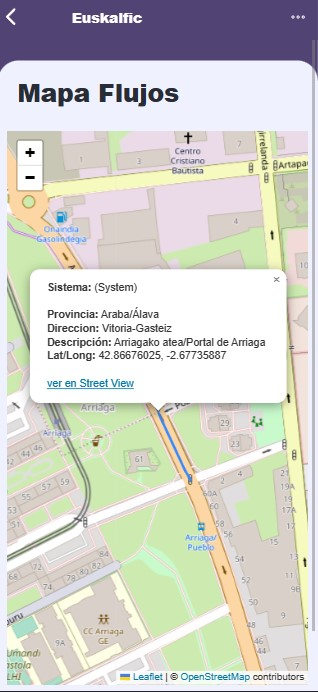
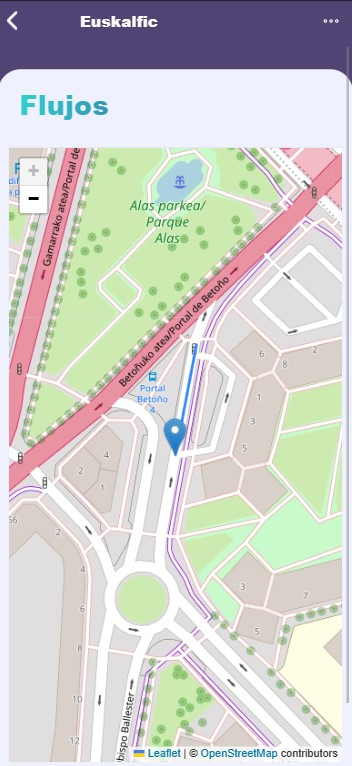
wip: cambios fotos, estilos, formateador geolocalizacion utm

diff --git a/src/app/views/map/containers/map.page.ts b/src/app/views/map/containers/map.page.ts
@@ -1,13 +1,14 @@
 import { ChangeDetectionStrategy, Component, OnDestroy } from '@angular/core';
 import { ActivatedRoute } from '@angular/router';
 import { Camera, CameraActions, fromCamera } from '@euskalfic/shared/camera';
-import { Flow, FlowActions, fromFlow, FlowProperty, FlowGeometry } from '@euskalfic/shared/flow';
+import { Flow, FlowActions, FlowGeometry, FlowProperty, fromFlow } from '@euskalfic/shared/flow';
 import { IncidenceActions, fromIncidence } from '@euskalfic/shared/incidence';
 import { Incidence } from '@euskalfic/shared/incidence/models/index';
 import { gotToTop, trackById } from '@euskalfic/shared/utils/funcionts';
 import { concatLatestFrom } from '@ngrx/effects';
 import { Store } from '@ngrx/store';
-import { Map, icon, marker, polyline, tileLayer } from 'leaflet';
+import { Map, icon, marker, polyline, tileLayer, utm } from 'leaflet';
+import 'leaflet.utm';
 import { Observable, Subject, map, takeUntil, tap } from 'rxjs';
 import { filter, switchMap } from 'rxjs/operators';
 
@@ -20,7 +21,7 @@ import { filter, switchMap } from 'rxjs/operators';
     </div>
 
     <div class="container components-background-dark">
-      <h1 class="text-color-dark">{{ 'COMMON.MAP' | translate }}
+      <h1 class="text-color-gradient">
         {{ (
             getOption === 'incidence' ? 'COMMON.INCIDENCES'
           : getOption === 'camera' ? 'COMMON.CAMERAS'
@@ -35,6 +36,10 @@ import { filter, switchMap } from 'rxjs/operators';
           leaflet
           id="map">
         </div>
+      </div>
+
+      <div class="notification-wrapper">
+        <p>{{ 'COMMON.NOTIFICATION_MESSAGE' | translate }}</p>
       </div>
 
     </div>
@@ -85,9 +90,11 @@ export class MapPage implements OnDestroy {
 
         return (this.getSelectors(incidenceId, cameraId, meterId) as any).pipe(
           tap(item => {
-            // console.log(item)
-            const { latitude = null, longitude = null } = (item as any) || {};
             if(!item) return;
+            const { latitude:fromUtmLatitude = 0, longitude:fromUtmLongitude = 0 } = this.getFromUtmCoords(item) || {};
+            const latitude = this.getOption === 'camera' ? fromUtmLatitude : (item as any)?.latitude ?? null;
+            const longitude = this.getOption === 'camera' ? fromUtmLongitude : (item as any)?.longitude ?? null;
+
             if(latitude?.toString() === '0.0' && longitude?.toString() === '0.0') return;
 
             setTimeout(() => {
@@ -187,7 +194,8 @@ export class MapPage implements OnDestroy {
 
   // CREATE INCIDENCE POPUP
   cameraPopUp(camera: Camera): string {
-    const { address = null, cameraName = null, kilometer = null,latitude = null, longitude = null, road = null } = camera || {}
+    const { address = null, cameraName = null, kilometer = null, road = null } = camera || {};
+    const { latitude = 0, longitude = 0 } = this.getFromUtmCoords(camera) || {};
     return `
       <b>Ubicacion:</b> (${address || '-' })<br /><br />
       <b>Nombre camara:</b> ${cameraName || '-'}<br />
@@ -246,5 +254,16 @@ export class MapPage implements OnDestroy {
       </a>
     `;
   }
+
+
+  getFromUtmCoords(item: any): {longitude: number | number[], latitude: number | number[]} {
+    const { latitude:y = 0, longitude:x = 0 } = item|| {};
+    const data = utm({x, y, zone: 30, band: 'N', southHemi: false });
+    return {
+      longitude: data?.latLng()?.lng ?? 0,
+      latitude: data?.latLng()?.lat ?? 0,
+    };
+  }
+
 
 }

diff --git a/src/app/shared-ui/card/card.component.ts b/src/app/shared-ui/card/card.component.ts
@@ -34,7 +34,7 @@ import { errorImage, sliceDate, sliceText } from '@euskalfic/shared/utils/funcio
       </div>
 
       <ng-container *ngIf="from !== 'source'">
-        <div class="set-item-types">
+        <div class="set-item-types" [ngClass]="{'w-52':['cameras']?.includes(from), 'w-94': !['cameras']?.includes(from)}">
           <ion-chip class="text-color-light">
             <ion-label>
               {{
@@ -64,11 +64,11 @@ import { errorImage, sliceDate, sliceText } from '@euskalfic/shared/utils/funcio
             <ion-img loading="lazy" [src]="$any(item)?.urlImage || defaultImage" [alt]="$any(item)?.urlImage" (ionError)="errorImage($event)"></ion-img>
           </ion-avatar>
 
-          <div *ngIf="['incidences','flows']?.includes(from)" class="icon-wrapper displays-center">
+          <!-- <div *ngIf="['incidences','flows']?.includes(from)" class="icon-wrapper displays-center">
             <ion-chip *ngIf="['incidences']?.includes(from)" class="text-color-light"> <ion-label>{{ $any(item)?.autonomousRegion || '-' }}</ion-label></ion-chip>
             <ion-chip *ngIf="['incidences']?.includes(from)" class="text-color-light"> <ion-label>{{ $any(item)?.province || '-' }}</ion-label></ion-chip>
             <ion-chip *ngIf="['flows']?.includes(from)" class="text-color-light heigth-min"> <ion-label>{{ $any(item)?.properties?.description || '-' }}</ion-label></ion-chip>
-          </div>
+          </div> -->
         </div>
       </ng-container>
     </div>

diff --git a/src/app/shared-ui/card/card.component.scss b/src/app/shared-ui/card/card.component.scss
@@ -1,7 +1,7 @@
 @import '../../../theme/variables';
 
 :host{
-  width: 94%;
+  width: 48%;
 
   ion-card{
     min-height: 7em;
@@ -52,22 +52,13 @@
       }
 
       .set-item-types{
-        width: 52%;
+        // width: 52%;
         margin-top: 10px;
       }
 
       .icon-wrapper {
         margin: 0 auto;
         margin-top: 10px;
-
-        ion-chip{
-          // height: 50px;
-
-          // ion-label{
-          //   padding-top: 5px;
-          //   padding-bottom: 5px;
-          // }
-        }
       }
     }
 
@@ -79,10 +70,8 @@
     }
 
     ion-chip{
-      width: 100%;
+      width: 94%;
       height: 20px;
-      // box-shadow: 1px 1px 7px grey;
-      // background: $fifthiary;
       background: rgba(255, 255, 255, 0.15);
 
       ion-label{
@@ -92,4 +81,12 @@
     }
   }
 
+}
+
+.w-52{
+  width: 52%;
+}
+
+.w-94{
+  width: 94%;
 }

diff --git a/src/app/views/source/containers/source.page.ts b/src/app/views/source/containers/source.page.ts
@@ -17,7 +17,7 @@ import { componentState } from '@euskalfic/shared/utils/models';
     </div>
 
     <div class="container components-background-dark">
-      <h1 class="text-color-dark">{{ 'COMMON.FLOWS' | translate }}</h1>
+      <h1 class="text-color-gradient">{{ 'COMMON.FLOWS' | translate }}</h1>
       <div class="empty-div"></div>
 
       <ng-container *ngIf="source$ | async as source">
@@ -56,7 +56,7 @@ import { componentState } from '@euskalfic/shared/utils/models';
 
       <!-- LOADER  -->
       <ng-template #loader>
-        <app-skeleton-card *ngFor="let item of [1,2,3,4,5,6,7,8,9,10]; trackBy: trackById"></app-skeleton-card>
+        <app-skeleton-card *ngFor="let item of [1,2,3,4,5,6,7]; trackBy: trackById"></app-skeleton-card>
       </ng-template>
     </div>
 

diff --git a/src/app/views/camera/containers/camera.page.ts b/src/app/views/camera/containers/camera.page.ts
@@ -22,7 +22,7 @@ import * as fromCameraPage from '../selectors/camera-page.selectros';
     </div>
 
     <div class="container components-background-dark">
-      <h1 class="text-color-dark">{{ 'COMMON.CAMERAS' | translate }}</h1>
+      <h1 class="text-color-gradient">{{ 'COMMON.CAMERAS' | translate }}</h1>
       <div class="empty-div"></div>
 
       <ng-container *ngIf="cameras$ | async as cameras">

diff --git a/src/app/views/incidence/containers/incidence.page.ts b/src/app/views/incidence/containers/incidence.page.ts
@@ -21,7 +21,7 @@ import { concatLatestFrom } from '@ngrx/effects';
     </div>
 
     <div class="container components-background-dark">
-      <h1 class="text-color-dark">{{ 'COMMON.INCIDENCES' | translate }}</h1>
+      <h1 class="text-color-gradient">{{ 'COMMON.INCIDENCES' | translate }}</h1>
       <div class="empty-div"></div>
 
       <ng-container *ngIf="incidences$ | async as incidences">

diff --git a/src/app/views/flow/containers/flow.page.ts b/src/app/views/flow/containers/flow.page.ts
@@ -21,7 +21,7 @@ import { Source, fromSource } from '@euskalfic/shared/source';
     </div>
 
     <div class="container components-background-dark">
-      <h1 class="text-color-dark">{{ 'COMMON.FLOWS' | translate }}</h1>
+      <h1 class="text-color-gradient">{{ 'COMMON.FLOWS' | translate }}</h1>
       <div class="empty-div"></div>
 
       <ng-container *ngIf="flows$ | async as flows">

diff --git a/src/app/views/map/containers/map.page.scss b/src/app/views/map/containers/map.page.scss
@@ -11,3 +11,22 @@
   height: 80vh;
   // z-index: 0 !important;
 }
+
+.notification-wrapper{
+  width: 90%;
+  height: 60px;
+  border-radius: 10px;
+  box-shadow: 0px 0px 8px gray;
+  margin: 0 auto;
+  position: absolute;
+  background: #FFC0CB;
+  z-index: inherit;
+  z-index: 9999;
+  bottom: 30px;
+
+  >p{
+    padding: 10px;
+    color: #8B0000;
+    font-size: 12px;
+  }
+}

diff --git a/src/app/views/home/containers/home.page.ts b/src/app/views/home/containers/home.page.ts
@@ -13,7 +13,7 @@ import { IonContent } from '@ionic/angular';
     </div>
 
     <div class="container components-background-dark">
-      <h1 class="text-color-dark">{{ 'COMMON.HOME' | translate }}</h1>
+      <h1 class="text-color-gradient">{{ 'COMMON.HOME' | translate }}</h1>
       <div class="empty-div"></div>
 
       <div

diff --git a/src/theme/variables.scss b/src/theme/variables.scss
@@ -340,6 +340,12 @@ cdk-virtual-scroll-viewport {
   color: $primary;
 }
 
+.text-color-gradient{
+  background: linear-gradient(to right, #30CFD0 0%, #330867 100%);
+	-webkit-background-clip: text;
+	-webkit-text-fill-color: transparent;
+}
+
 .text-color-sixtiary{
   color: $sixtiary;
 }

diff --git a/src/app/views/flow/containers/flow.page.scss b/src/app/views/flow/containers/flow.page.scss
@@ -1,5 +1,5 @@
 @import '../../../../theme/variables.scss';
 
 app-skeleton-card{
-  width: 94%;
+  width: 48%;
 }

diff --git a/src/app/views/incidence/containers/incidence.page.scss b/src/app/views/incidence/containers/incidence.page.scss
@@ -1,5 +1,5 @@
 @import '../../../../theme/variables.scss';
 
 app-skeleton-card{
-  width: 94%;
+  width: 48%;
 }
